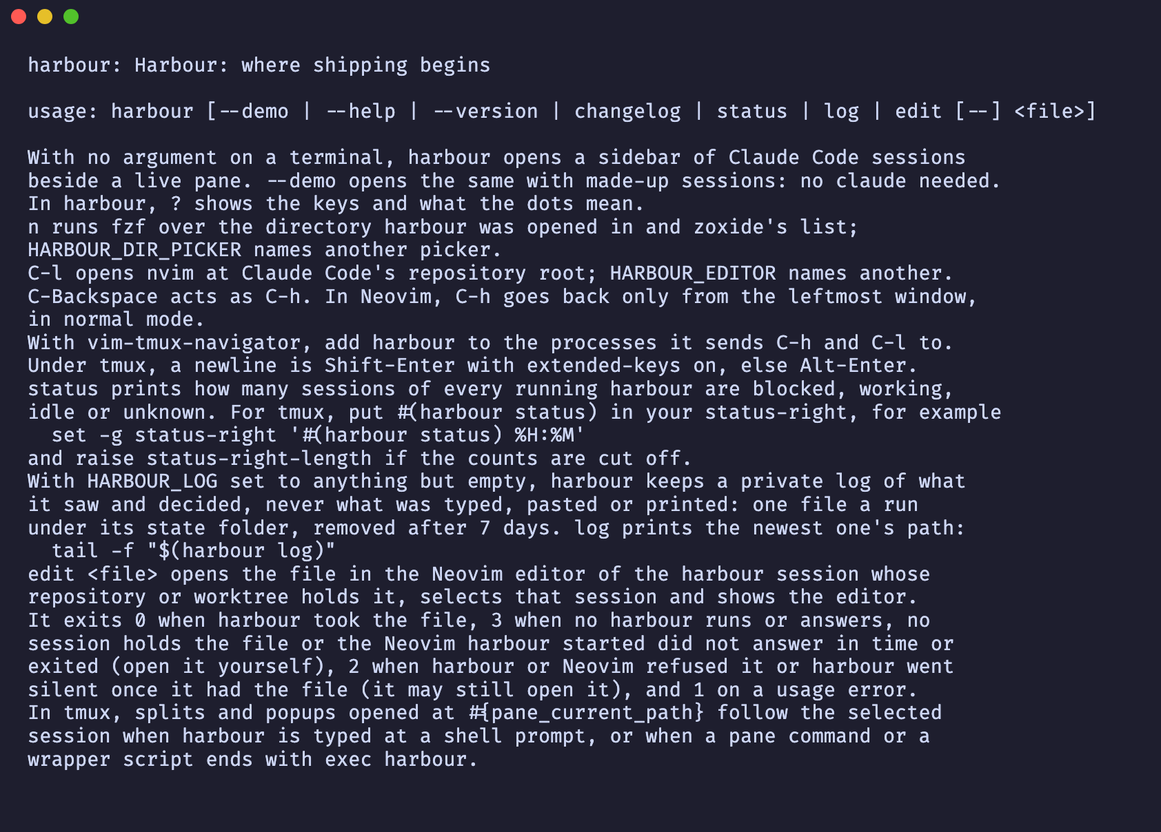
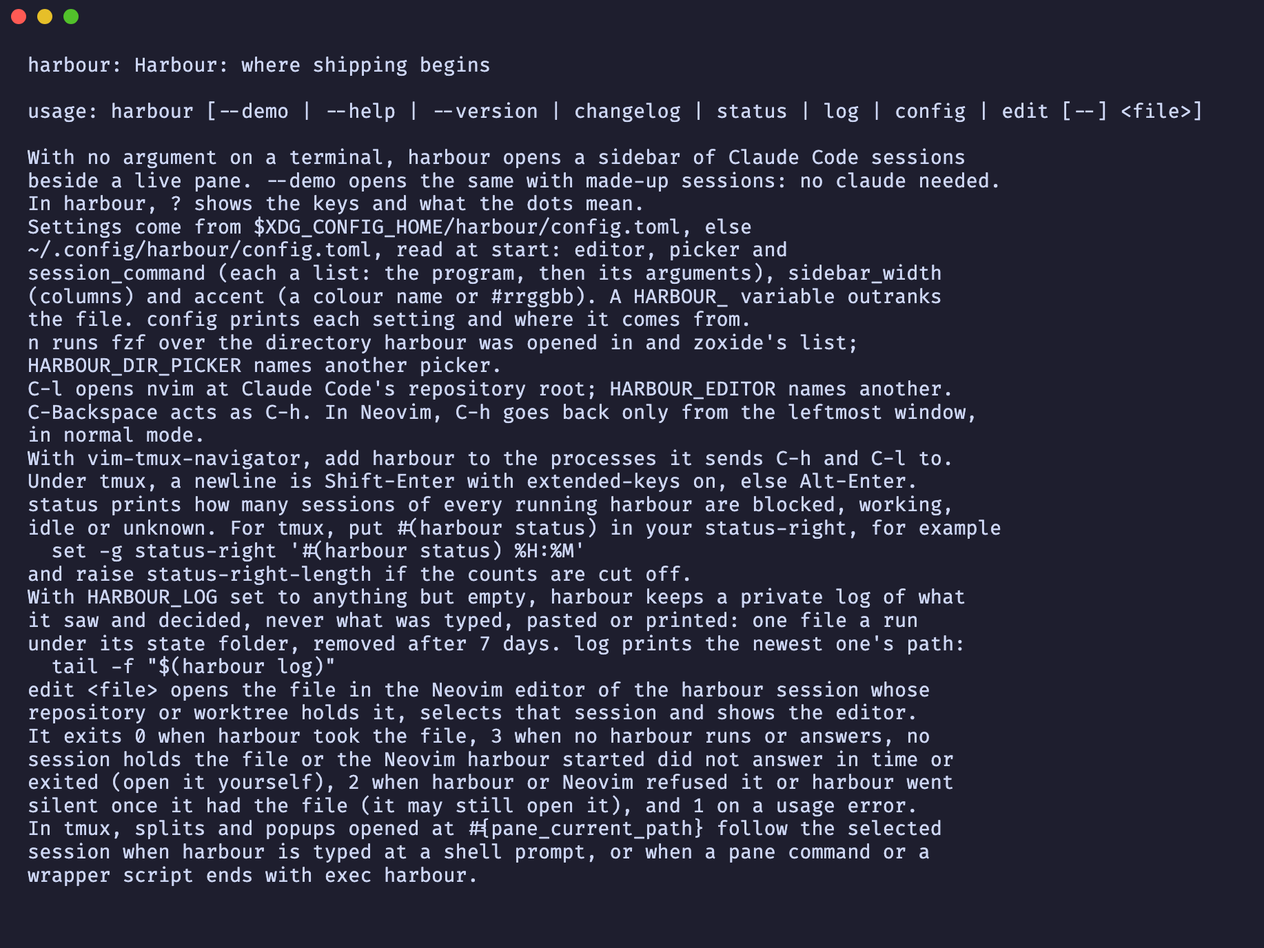
The accent screenshot, harbour config in the README usage, and the phase's outcome

diff --git a/tests/readme.rs b/tests/readme.rs
@@ -85,6 +85,11 @@ fn the_readme_usage_shows_the_log_subcommand() {
 }
 
 #[test]
+fn the_readme_usage_shows_the_config_subcommand() {
+    assert!(README.contains("\nharbour config "));
+}
+
+#[test]
 fn the_readme_builds_from_source_at_the_newest_release() {
     assert!(README.contains(
         "\ncargo install --git https://github.com/piacsek/harbour --branch stable --locked\n"

diff --git a/AGENTS.md b/AGENTS.md
@@ -44,9 +44,10 @@ The layout names what each file or directory is for; read its functions from the
 rules from the `AGENTS.md` of its directory.
 
 ```
-src/main.rs      the binary: `--version`/`-V`/`version`, `--help`/`-h`/`help`, `changelog`, `status` (the counts for the tmux status line), `log` (the newest log's path; exits 1 when there is none), `edit <file>` (`src/handoff.rs`; exits 0 opened, 3 untaken, 2 refused, 1 usage; `edit --help`/`-h` the usage), the interface with no argument on a terminal, the same with made-up sessions for `--demo` on a terminal, the usage on anything else
+src/main.rs      the binary: `--version`/`-V`/`version`, `--help`/`-h`/`help`, `changelog`, `status` (the counts for the tmux status line), `log` (the newest log's path; exits 1 when there is none), `config` (`src/config.rs`: the file's path and each setting with its source; exits 1 on a bad file), `edit <file>` (`src/handoff.rs`; exits 0 opened, 3 untaken, 2 refused, 1 usage; `edit --help`/`-h` the usage), the interface with no argument on a terminal (after reading the config file, refused in one line before it opens when the file is bad), the same with made-up sessions for `--demo` on a terminal, the usage on anything else
 src/lib.rs                    the library the binary and the tests share
-src/tui.rs                    the terminal: enters and restores it (extended keys asked for with xterm's `modifyOtherKeys` mode 1 on entering, reset on leaving, by quit or panic), reads its events, draws the app, hides the cursor at the start of each frame and, after the frame, moves it to the cell the app asks for and shows it in one write (ratatui is never given a cursor, so it keeps it hidden), sends the terminal the cursor shape the app asks for (`src/cursor.rs`) within that frame, shows the cursor when harbour leaves it, on a panic too, and sends the default shape then only when the last shape it sent was another, and hands the app the listener of `harbour edit` (never in the demo); the program a session runs (`claude`, given `--session-id`, or what `HARBOUR_SESSION_COMMAND` names, given none; the transcripts are read for both); the directory picker (fzf over zoxide's list, or what `HARBOUR_DIR_PICKER` names); the editor (`nvim`, or the one program `HARBOUR_EDITOR` names, Neovim when its file name is `nvim`); it hands the app the real `chdir`, and makes a relative `CLAUDE_CONFIG_DIR` absolute before harbour moves
+src/tui.rs                    the terminal: enters and restores it (extended keys asked for with xterm's `modifyOtherKeys` mode 1 on entering, reset on leaving, by quit or panic), reads its events, draws the app, hides the cursor at the start of each frame and, after the frame, moves it to the cell the app asks for and shows it in one write (ratatui is never given a cursor, so it keeps it hidden), sends the terminal the cursor shape the app asks for (`src/cursor.rs`) within that frame, shows the cursor when harbour leaves it, on a panic too, and sends the default shape then only when the last shape it sent was another, and hands the app the listener of `harbour edit` (never in the demo); `run` takes the `Config` and hands the app its accent and sidebar width; the program a session runs (`claude`, given `--session-id`, or the config's `session_command`, given none; the transcripts are read for both); the directory picker (fzf over zoxide's list when the config's `picker` program is named `fzf`, else that program alone, `HARBOUR_DIR_PICKER` always alone); the editor (the config's `editor`, `nvim` by default, Neovim when its file name is `nvim`); it hands the app the real `chdir`, and makes a relative `CLAUDE_CONFIG_DIR` absolute before harbour moves
+src/config.rs                 harbour's settings file, `$XDG_CONFIG_HOME/harbour/config.toml` (an absolute, non-empty variable), else `~/.config/harbour/config.toml`, never created: read once by the interface and by `harbour config`, never by `--demo`, `status`, `edit` or `log`; `editor`, `picker` and `session_command` (a program and its arguments, the program `~`-expanded, a relative one refused), `sidebar_width` (a whole number above 0) and `accent` (one of the 16 colour names or `#rrggbb`), each a `HARBOUR_` variable first when set and not empty, then the file, then the default; a bad file is one `Refusal` naming the file, the line and the key; `report`, what `harbour config` prints
 src/picker.rs                 the directory picker of `n`: a program run as a session in a popup, its standard output sent to a file in a temporary directory only its owner can open (0700), the first line it prints, as bytes, canonicalized (read from where harbour was opened when relative), every path kept as bytes on the way into its arguments, exit statuses 126 and 127 (and 2 for fzf) named as "could not start"; fzf given `--no-expect --no-print-query --no-read0 --no-print0` after the user's `FZF_DEFAULT_OPTS`, so it prints one directory a line; for fzf the popup's own shell writes the list (harbour's directory first, then the list command's lines without it) into a FIFO fzf reads, so a slow list never holds up harbour, and a missing fzf means "start at once"; a bare program name is searched on `PATH` with each relative entry taken from where harbour was opened, where the popup's shell runs it
 src/app/mod.rs                the app: its state and what each paste and mouse event does; each session's one directory Claude Code was last seen in, which C-l opens, and its editors, one per directory, which `e` shows in turn
 src/app/key.rs                what each key does: C-Backspace taken as C-h, and Shift-Enter or Ctrl-Enter sent as a plain Enter to the picker and to a shown editor (only Claude Code gets the new line); to the picker while it is open, an answer while a question or the help shows, C-h and C-l over the pane, to the shown session while the pane has focus, else one line per sidebar key, each calling its handler
@@ -54,7 +55,7 @@ src/app/draw.rs               what the app draws, after settling exited editors 
 src/app/handoff.rs            which session holds a file `harbour edit` names (a path inside a session's `root`, resolved through symlinks, never a stopped card's; the deepest root first, then the selected session, then the one the user last acted on: keys, paste or mouse sent to it, C-l, its start) and opening it: that session selected and its editor shown with the file, as C-l would show it; where each session works read again before an open, and that same root used for it; `none` to an ask and a refusal to an open while a question or the picker waits, `none` to an ask and a refusal to an open for an editor that is not Neovim, busy past the deadline, and when Neovim cannot start or take the file, a refusal leaving the screen as it was; a Neovim it started that stays silent until the deadline closed and the request untaken, and one that exits untaken at once
 src/app/logging.rs            what the app writes to the log: start and quit, a bound key by name (a key or paste forwarded only as `input to=<where> bytes=<n>`, the bytes sent, never its text; an unbound key the sidebar does not forward as `key name=other`), focus, selection, refusals, each session's and editor's start and exit, every `harbour edit` request and Neovim call, a frame of 100 ms or more, and the panics a session contained; nothing when the log is off
 src/app/remember.rs           what the app does with remembered sessions: recalls them once as stopped cards, at most 100 by position, from one listing of every projects folder (a card whose transcript is gone is left out, its file forgotten once it is 30 days old), says on line 2 and in the pane why one cannot resume (`directory gone`, `open elsewhere` while a live pid's registry file or another harbour's reservation names its id), resumes one with `<command> --resume <id>` in its directory after checking both again and reserving the id for as long as it runs, keeps each session's id, directory, title and position once its transcript exists (again when its file went missing, once more when it exits and at quit), merges a stopped card into the session that resumed its conversation, forgets on `x` (never a file a session open elsewhere owns), clears its `gone` and `open elsewhere` messages on a new selection, the next attempt or once the card can resume, and adds `Conversations come back stopped.` to the quit question
-src/app/split.rs              how the sidebar and the pane share the terminal: two columns, a third and two thirds, from 60 columns; below that one side at a time, the pane while it has focus, else the sidebar
+src/app/split.rs              how the sidebar and the pane share the terminal: two columns, from 60 columns, the sidebar a third or the configured width cut to half, the pane the rest; below that one side at a time, the pane while it has focus, else the sidebar
 src/handoff.rs                `harbour edit <file>` and its listener: the file made absolute (its folder resolved when the file does not exist yet, a dangling symlink followed to where it points, 4096 bytes at most), every harbour asked over a socket in a private (0700) `$XDG_STATE_HOME/harbour/edit/`, else `~/.local/state/harbour/edit/`, which of its sessions holds it, how deep its root lies, whether it is selected and when it was last used, and the first by that order told to open it; the listener binds `<pid>-<n>.sock` (0600), removes it when dropped, binds again within 5 s when it is gone, removes the sockets no process listens on, and, on a thread of its own that sleeps in `poll` until a connection, its check or harbour's exit wakes it, accepts, checks the peer and reads each request on a thread of its own (at most 16 in flight, the rest closed at once), keeping only a request from its own user that arrives within 100 ms and has not expired; it resolves the path again itself, answers `none` or a refusal when it does not resolve, and hands the app the rest over a channel with a deadline of its expiry, 5 s at most
 src/memory.rs                 the remembered sessions on disk: one `<sessionId>.json` per conversation under `$XDG_STATE_HOME/harbour/sessions/<configuration>/`, else `~/.local/state/harbour/sessions/<configuration>/`, one folder per Claude Code configuration (a stable hash of its resolved `projects/` path, symlinks followed), so a harbour never shows, resumes or prunes another configuration's conversations (0700 folder, 0600 files, written through a staged file and a rename, a staged file older than a minute swept); the directory stored as text, or as its bytes when it is not UTF-8; no file names another, so none deletes another; read leniently: a regular file only, never through a symlink, at most 64 KiB, `version` 1, an id of Claude Code's shape (a lowercase 8-4-4-4-12 hex UUID, so `--resume <id>` never reads it as an option) matching its name, an absolute directory, anything else skipped and left on disk, a file from a newer version never overwritten or removed; `reserve`: a private `<id>.<unique>.lock` held with a non-blocking lock by every running session with a remembered id (taken when the id is first known, the new one taken before the old one is released when it changes, tried again at each read while held elsewhere) and kept only while that file is still at its path, retried once when held, dead ones swept
 src/follow.rs                 where harbour works, so tmux's `#{pane_current_path}` follows the selected session: the `root` of the editor for its last seen directory, or where harbour was opened with no session or when that directory is gone or cannot be entered; checked at a frame when the selection or the directory changed, else every half second, and moved to only when it differs by path or by device and inode (a directory replaced in place is entered again); `temporary`, the temporary directory made absolute at start
@@ -67,7 +68,7 @@ src/registry.rs               Claude Code's session file for a pid (`<CLAUDE_CON
 src/state.rs                  a session's state from its exit and its file: the dot and its colour, the title counts above zero fitted to the sidebar's width (none and too narrow for the word: no title, so the border stays whole), and the help legend
 src/repo.rs                   a session's repository and branch read from git's own small files (`.git`, `gitdir`, `commondir`, `HEAD`) as bytes, never by running git: a repository, a worktree (the main repository's name), a submodule, a bare repository and its worktrees (without `.git`), a detached `HEAD`, the nearest repository above a deleted folder, else the folder's name; `root` and `place` share one walk up that skips the home directory itself (a dotfiles `.git` there), compared by device and inode so a symlinked home still matches
 src/transcript.rs             a session's transcript (`<CLAUDE_CONFIG_DIR or ~/.claude>/projects/*/<sessionId>.jsonl`), found by its `sessionId` (harbour's own, passed as `--session-id` when it runs `claude`, until the registry names another; a failed or empty registry read keeps the one followed) (and found again when it can no longer be opened) and read from its last MiB, then only what was appended, a line over a MiB skipped: its title, last prompt, branch, directory and pull request, each kept to its first 4 KiB until a good value replaces it, an empty one ignored, never a tool call; and its subagents still running (a `subagents/*.meta.json` without `"finished": true`, not older than the session; a finished one never read again)
-src/card.rs                   a session's card in the sidebar: three lines cut by `src/text.rs`, line 2 the last prompt dimmed while working or idle (empty on the selected card), else what it waits for, `exited` or why it cannot resume, on every card; the time in its state at the right of line 1 (`<1m`, `3m`, `2h`, `4d`; for an exited session, since harbour saw the exit; none without a time), kept while the title has a column; the cyan bar and bold down the selected card, a blank line between cards, the scroll that keeps the selected card whole and moves only when it would leave the view
+src/card.rs                   a session's card in the sidebar: three lines cut by `src/text.rs`, line 2 the last prompt dimmed while working or idle (empty on the selected card), else what it waits for, `exited` or why it cannot resume, on every card; the time in its state at the right of line 1 (`<1m`, `3m`, `2h`, `4d`; for an exited session, since harbour saw the exit; none without a time), kept while the title has a column; the accent's bar (cyan by default) and bold down the selected card, a blank line between cards, the scroll that keeps the selected card whole and moves only when it would leave the view
 src/text.rs                   every cut of text harbour draws: measured in the cells ratatui fills for each grapheme (an emoji with a variation selector, a joined sequence or a flag counts whole, a halfwidth sound mark too), cut with `…` or wrapped by those columns (between words where a word fits), never wider than the room given; cleaned of control characters, bidi marks, U+061C, U+200B and a joiner that joins nothing, folded to one line and kept to 512 characters
 src/summary.rs                the counts a running harbour publishes for `harbour status` (one publication under a name of its own, pid, time and counter: `<name>.counts` beside a `<name>.lock` it holds, under `$XDG_STATE_HOME/harbour/status/`, else `~/.local/state/harbour/status/`, nowhere when neither is absolute, private, removed on quit, never waiting for a lock; a failed write or a missing file drops the whole publication, and a fresh one is made at most every `RETRY`, 5 s; making one removes every dead publication, a regular `<digits>-<digits>-<digits>.lock` other than its own that it can open for writing and no one holds, with its `.counts` and `.tmp`) and the reader that adds up the regular `.counts` files of that naming whose lock is still held, never following a symlink
 src/help.rs                   what the help view shows besides the legend: `KEYS`, which the README key table mirrors, and `REST`, its last line, pointing to `harbour --help`, which carries the notes (`HARBOUR_DIR_PICKER`, `HARBOUR_EDITOR`, C-Backspace arriving as C-h and Neovim's C-h rule, the tmux pattern, the newline under tmux, `HARBOUR_LOG`)
@@ -106,7 +107,7 @@ scripts/homebrew-formula.sh   prints the tap formula for a released version
 scripts/formula-version.sh    the `tap` job's decision; never a version below the formula's
 scripts/stable-version.sh     the `stable-build` and `stable` jobs' decision, asked by both: the release the `stable` branch moves to, never below the version it holds
 scripts/sweep-report.sh       `[<first phase>]`: the sweep's data from `plans/`, as Markdown; counts and groups, judges nothing
-scripts/screenshots.sh        renders docs/details.png from `harbour --demo` and docs/help.png from `harbour --help`, plus one `shoot` per extra view (keys, pane, question, quit, ended (the demo with its blocked session ended, a count gone from the title), editor, narrow, picker; truecolor.py converts ANSI)
+scripts/screenshots.sh        renders docs/details.png from `harbour --demo` and docs/help.png from `harbour --help`, plus one `shoot` per extra view (keys, pane, question, quit, ended (the demo with its blocked session ended, a count gone from the title), editor, narrow, picker, accent (the interface without `--demo`, through a config file written into the scratch `HOME` and removed after it); truecolor.py converts ANSI)
 scripts/sweep-issue.sh        the `issue` job of `sweep.yml`: opens "Sweep due before phase N" with the report once the next phase is a multiple of 5, never twice
 docs/                         the screenshots `scripts/screenshots.sh` writes (see "Documentation rule")
 changes/                      one fragment per pull request that feeds the binary (`kind:` and the changelog bullets); add-only, see Releasing
@@ -124,6 +125,7 @@ tests/           outside-in: `tests/cli.rs` runs the real binary;
                  `tests/text.rs` covers measuring, cutting, wrapping and cleaning text, `tests/card.rs` a card's lines, `tests/repo.rs` reading a repository and branch from scratch `.git` layouts, `tests/transcript.rs` reading a transcript, `tests/memory/` every file state of the remembered sessions (`reserving.rs` the locks and the sweep, `places.rs` the directory bytes and the configurations);
                  `tests/keys.rs` is the table of the bytes each key sends, `tests/input.rs` the table of what each sequence reads as, `tests/mouse.rs` the table of what a session receives for each mouse event, mode, gesture and modifier;
                  `tests/tui.rs` covers entering the terminal (extended keys asked for) and leaving it (mouse capture, bracketed paste and extended keys off, the default cursor shape only after another was sent) and the panic hook, `tests/cursor.rs` when a cursor shape is sent;
+                 `tests/config/` reads the settings file in process (every refusal, the precedence) and runs `harbour config`; `tests/e2e/config.rs` runs the interface over a scratch config; `tests/real_config.rs` fails while a launch of the binary under `tests/`, or the launch line of `scripts/screenshots.sh`, leaves the user's `XDG_CONFIG_HOME` or `HOME` in place, naming it;
                  `tests/readme.rs` pins the README shape (see "Documentation rule");
                  `tests/source_size.rs` fails while any Rust file under `src/` or `tests/` is longer than 700 lines, naming it;
                  `tests/checkout_name.rs` fails while a test under `tests/` reads the process's directory (`current_dir()`, the checkout under cargo) or builds a `tests/app/` `Screen` outside `tests/app/main.rs`, naming the file and line (what it cannot see: `tests/AGENTS.md`);

diff --git a/plans/metrics.md b/plans/metrics.md
@@ -43,4 +43,4 @@ costs context.
 | 18 | #77 | 2026-11-21 04:45:41Z | 04:57:07Z | 05:12Z | 05:20:20Z | 05:20:33Z | 05:22:16Z (v0.14.0) | 36 min 35 s | 1 | measured, `subagent_tokens` of the completion notice: 139540; the notice of the last ship is not known when this row is written | unknown (the figure of round 1's notice is not known to the orchestrator) | none | context 466511 at start, 485336 at the clean review, measured from its transcript, no compaction between the two; tokens unknown | 27 min from build start (04:45Z) to the end of the clean review round. The orchestrator session was shared with phase 19 and two fix branches built in parallel. The notice of the last ship is not known when this row is written. Ready, merged and released were written by phase 20, read from GitHub; start → end runs to the v0.14.0 release. |
 | 19 | #76 | 2026-11-21 04:08:01Z | 04:18Z | 05:37Z | 05:51:31Z | 05:51:46Z | 05:53:22Z (v0.15.0) | 1 h 45 min 21 s | 3 | measured, `subagent_tokens` of each completion notice, not a running total: 149304, 150540, 101323; the notice of the last ship is not known when this row is written | measured, `subagent_tokens` of the `/code-review` skill, one per round: round 1: 117978; round 2: 145051; round 3: 149335 | none | context 420659 at start, 507096 at the end of the last round, measured from its transcript, no compaction between the two; tokens unknown | 1 h 29 min from build start (04:08Z) to the end of the last review round. The loop ended at the owner's cap of 3 rounds with two findings left for an issue. The orchestrator session was shared with phase 18 and two fix branches built in parallel. The notice of the last ship is not known when this row is written. Ready, merged and released were written by phase 20, read from GitHub; start → end runs to the v0.15.0 release. |
 | 20 | #82 | 2026-11-21 05:52:40Z | 05:56:14Z | 06:11Z | 06:21:58Z | 06:22:14Z | 06:23:27Z (v0.16.0) | 30 min 47 s | 1 | measured, `subagent_tokens` of the completion notice: 164528; the notice of the last ship is not known when this row is written | measured, `subagent_tokens` of the `/code-review` skill, one per round: round 1: 103532 | none | context 521726 at start, 541387 at the clean review, measured from its transcript, no compaction between the two; tokens unknown | 19 min from build start (05:52Z) to the end of the clean review round. The orchestrator session was shared with a fix branch (#79) built in parallel. The notice of the last ship is not known when this row is written. Ready, merged and released were written by phase 21, read from GitHub; start → end runs to the v0.16.0 release. |
-| 21 | | 2026-11-21 06:23:02Z | | | | | | | | | | none | | |
+| 21 | #90 | 2026-11-21 06:23:02Z | 06:37:56Z | | | | | | | | | none | | |

diff --git a/plans/phase-21-config-file.md b/plans/phase-21-config-file.md
@@ -166,4 +166,35 @@ Each is the smallest option that meets the issue.
 
 ## Outcome
 
+- Shipped on PR #90 in six ships, one per task. Every decision above held as written; none
+  needed the owner.
+- `toml` moved from dev-dependencies to `[dependencies]` as `"1.2.1"`, the version the lock
+  already held, with its default features. `Cargo.lock` did not change, so the flake's
+  `cargoLock` and the `audit` job saw the same crates as `main`: `audit`, both `flake` legs and
+  `version` passed on every push.
+- The variables keep today's meaning and outrank the file; the file is still parsed when a
+  variable is set, so a bad file is refused whatever the environment holds.
+- The accent replaces `Color::Cyan` in the three places it marked focus: the focused border
+  (`bordered` in `src/app/draw.rs`, the picker popup's border included) and the selected card's
+  bar (`Sidebar::draw` takes it). The state dots keep their colours.
+- `sidebar_width` is a `Constraint::Length` of the width cut to half the window, the pane a
+  `Fill`; below 60 columns one side shows at a time, as before.
+- `tests/real_config.rs` scans `tests/` for every launch of the binary and fails while its
+  function neither sets `XDG_CONFIG_HOME` nor removes it with a scratch `HOME`; it named 13
+  launchers when written, all fixed in the same ship. It checks the launch line of
+  `scripts/screenshots.sh` too.
+- `docs/accent.png` is a new shot: the interface without `--demo` over a config file written into
+  the screenshot script's scratch `HOME` (accent `#d7875f`, width 48, `pwd` as the picker, a
+  `sh` session command), removed after the shot. `docs/help.png` changed with `--help`, which now
+  names the file and `harbour config`; `docs/details.png` did not change.
+- Red runs, each seen before the code: the config reading and refusals (task 1), the 13
+  launchers and the startup refusals (task 2), the precedence and the three programs (task 3),
+  the accent in process and through tmux's colour capture (task 4), the width in process and in
+  the e2e (task 5), the README usage line (task 6). Tests green on their first run (empty
+  variables, a variable over a bad file, the dots under an accent, one side below 60 columns)
+  were shown red by breaking the code they cover, then restored.
+
 ## Hurdles
+
+- `test-seam` A first width test asked for 40 columns of a 120-column window, a third, so it passed before the code existed; changed to 30 → none
+- `test-seam` The tmux colour capture writes an indexed colour as `38;5;N`, not `3N`; the first accent e2e assertion used the wrong form and was corrected, then shown red again without the wiring → none

diff --git a/tests/AGENTS.md b/tests/AGENTS.md
@@ -32,6 +32,11 @@ these suites come from; the ones about sessions were hit in harbour.
   to `tests/fixtures/picker.sh` to test the picker; in-process tests hand the builder `.with_picker` of `App` a `Picker` of `/bin/sh -c`
   scripts. A picker script draws on stderr: its stdout is the directory it picks.
 
+- **No test reads the user's config file.** The interface and `harbour config` read
+  `$XDG_CONFIG_HOME/harbour/config.toml`, else `~/.config/harbour/config.toml`, so every launch
+  of the binary sets `XDG_CONFIG_HOME`, or removes it and sets a scratch `HOME`, in the function
+  that launches it; `tests/real_config.rs` names a launch that does neither. A test of a setting
+  writes the file under its scratch `HOME`; in-process tests call `Config::read` with the variables they give it.
 - **A real Neovim runs only clean, in `tests/app/real_neovim.rs` and `tests/e2e/neovim.rs`.**
   Each test looks for `nvim` on the `PATH` the tests run with; without one it prints why and
   passes, so CI, which has no Neovim, runs them as no-ops. With one, it links it as `real-nvim`

diff --git a/changes/phase-21-config-file.md b/changes/phase-21-config-file.md
@@ -4,6 +4,8 @@ kind: feat
   `~/.config/harbour/config.toml`, at start: `editor`, `picker` and `session_command` (each a
   program with its arguments), `sidebar_width` and `accent`. A `HARBOUR_` variable still wins
   over the file; without a file nothing changes.
+- `sidebar_width` sets the sidebar's columns, borders included, with the pane keeping at least
+  half, and `accent` colours the focused border and the selected card's bar (cyan by default).
 - `harbour config` prints the file's path and every setting with where it comes from: the file,
   a variable or the default. A bad file is named with its line and key in one line, here and at
   start.

diff --git a/README.md b/README.md
@@ -35,6 +35,7 @@ harbour changelog   # what each release changed
 harbour status      # blocked, working and idle counts for the tmux status line
 harbour edit <file> # open the file in the editor of the session that holds it
 harbour log         # the path of the newest log, kept while HARBOUR_LOG is set
+harbour config      # the settings file's path and where each setting comes from
 ```
 
 | Key | Action |
